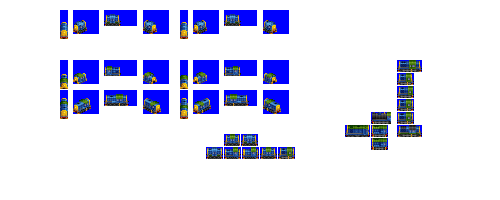
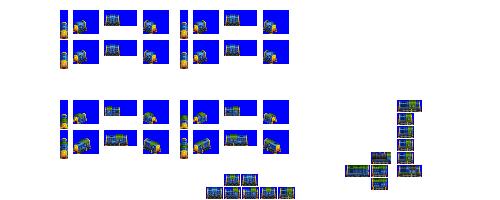
Change: additional banger blue livery for Chuggypig

Changed region(s): [[0.12, 0.18, 0.6, 0.81], [0.69, 0.3, 0.87, 0.96], [0.39, 0.87, 0.6, 1.0]]

diff --git a/src/vehicles/chuggypig.py b/src/vehicles/chuggypig.py
@@ -19,10 +19,8 @@ def main(roster_id):
         random_reverse=True,
         gen=4,
         vehicle_life=60,  # extended vehicle life for all gronks eh
-        # banger blue?  some kind of industrial 'extra 'yellow'?
-        additional_liveries=[],
+        additional_liveries=["BANGER_BLUE"],
         sprites_complete=True,
-        sprites_additional_liveries_needed=True, # banger blue?
     )
 
     consist.add_unit(
